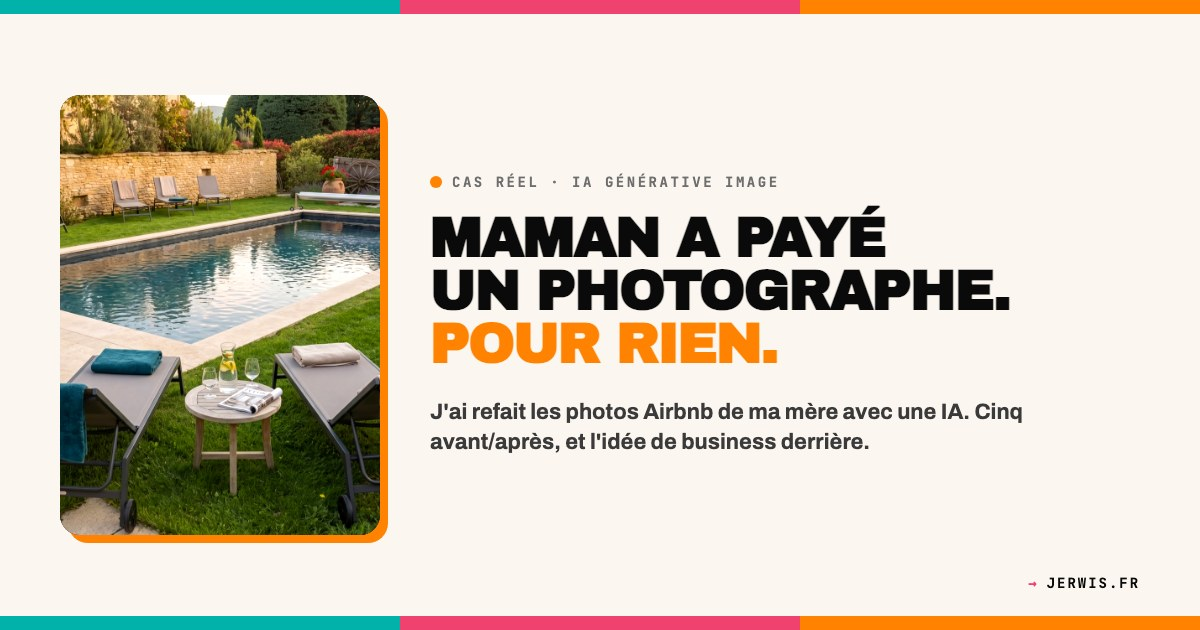
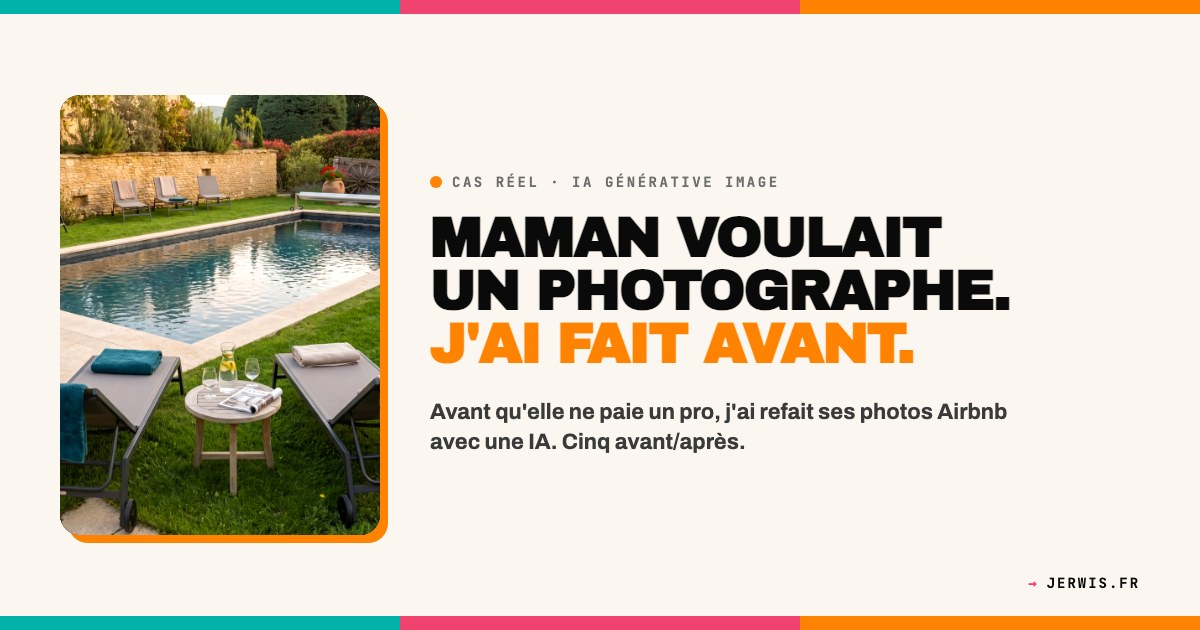
fix(article): airbnb — corriger l'histoire (photographe pas encore venu)
L'histoire réelle : maman voulait faire venir un photographe mais ne l'avait
pas encore fait. J'ai pris les devants avec Nano Banana avant qu'elle ne
décroche son téléphone. Du coup elle n'a pas rappelé le photographe et a
publié mes versions le soir même.

Mises à jour :
- Hero H1 : « Maman a payé un photographe. Pour rien. » → « Maman voulait
  un photographe. J'ai fait avant. »
- Hero lead : reformulé au futur
- Section déclic : devis demandé, date à fixer
- Proposition au dialogue : « avant que tu rappelles ton photographe »
- Conclusion : elle n'a pas rappelé, a publié mes versions le soir même
- TL;DR, meta, OG, Twitter, JSON-LD : alignés
- Cover OG 1200×630 régénérée avec nouveau titre
- Cards alaune + grille articles : ré-alignées

Changed region(s): [[0.3392, 0.5127, 0.7708, 0.6032], [0.3392, 0.6333, 0.8633, 0.7238], [0.555, 0.3317, 0.8017, 0.4222]]

diff --git a/articles/photos-airbnb-nano-banana.html b/articles/photos-airbnb-nano-banana.html
@@ -5,11 +5,11 @@
 <meta name="viewport" content="width=device-width, initial-scale=1.0">
 
 <title>Photos Airbnb retravaillées avec l'IA : test chez ma mère</title>
-<meta name="description" content="Ma mère a payé un photographe pour son Airbnb. Le lendemain, j'avais fait mieux gratuitement avec Nano Banana. Les 5 avant-après, et l'idée de business derrière.">
+<meta name="description" content="Maman voulait payer un photographe pour son Airbnb. J'ai pris les devants avec Nano Banana. Les 5 avant/après, et l'idée de business derrière.">
 
 <!-- Open Graph -->
-<meta property="og:title" content="Photos Airbnb refaites par une IA : test chez ma mère">
-<meta property="og:description" content="Maman a payé un photographe. Le lendemain, j'avais fait mieux gratuitement avec Nano Banana. Les 5 avant/après en images.">
+<meta property="og:title" content="Maman voulait un photographe Airbnb. J'ai fait avant.">
+<meta property="og:description" content="Maman allait payer un pro pour ses photos Airbnb. Je l'ai pris de vitesse avec une IA. Cinq avant/après.">
 <meta property="og:url" content="https://jerwis.fr/articles/photos-airbnb-nano-banana.html">
 <meta property="og:type" content="article">
 <meta property="og:locale" content="fr_FR">
@@ -23,8 +23,8 @@
 <meta name="twitter:card" content="summary_large_image">
 <meta name="twitter:site" content="@JeremySagnier">
 <meta name="twitter:creator" content="@JeremySagnier">
-<meta name="twitter:title" content="Photos Airbnb refaites par une IA : test chez ma mère">
-<meta name="twitter:description" content="Maman a payé un photographe. Le lendemain, j'avais fait mieux gratuitement avec Nano Banana.">
+<meta name="twitter:title" content="Maman voulait un photographe Airbnb. J'ai fait avant.">
+<meta name="twitter:description" content="Maman allait payer un pro pour ses photos Airbnb. Je l'ai pris de vitesse avec une IA.">
 <meta name="twitter:image" content="https://jerwis.fr/photos/og/photos-airbnb-nano-banana.jpg">
 
 <!-- Canonical -->
@@ -36,7 +36,7 @@
   "@context": "https://schema.org",
   "@type": "Article",
   "headline": "Photos Airbnb retravaillées avec l'IA : test chez ma mère",
-  "description": "Ma mère a payé un photographe pour son Airbnb. Le lendemain, j'avais fait mieux gratuitement avec Nano Banana. Les 5 avant-après, et l'idée de business derrière.",
+  "description": "Maman voulait payer un photographe pour son Airbnb. J'ai pris les devants avec Nano Banana. Les 5 avant/après, et l'idée de business derrière.",
   "inLanguage": "fr-FR",
   "url": "https://jerwis.fr/articles/photos-airbnb-nano-banana.html",
   "datePublished": "2026-05-13",
@@ -599,9 +599,9 @@
 <section class="hero">
   <div class="container">
     <div class="kicker"><span class="dot"></span>Cas réel · IA générative image</div>
-    <h1>Maman a payé<br>un photographe.<br><em>Pour rien.</em></h1>
+    <h1>Maman voulait<br>un photographe.<br><em>J'ai fait avant.</em></h1>
     <p class="hero-lead">
-      Un week-end chez ma mère, j'apprends qu'elle a fait venir un pro pour refaire les photos de son Airbnb. Le lendemain, sur mon ordinateur, j'avais fait mieux gratuitement avec une IA. Voilà les cinq avant-après, et pourquoi ça change tout pour les propriétaires Airbnb et les agents immobiliers.
+      Un week-end chez ma mère, elle me dit qu'elle compte faire venir un pro pour refaire les photos de son Airbnb. Avant qu'elle ne décroche son téléphone, j'avais fait le test avec une IA. Voilà les cinq avant/après, et pourquoi ça change tout pour les propriétaires Airbnb et les agents immobiliers.
     </p>
     <div class="hero-meta">
       <span class="hero-meta-item"><strong>13 mai 2026</strong></span>
@@ -617,7 +617,7 @@
     <div class="tldr-label">En 30 secondes</div>
     <h2>Ce qu'il y a dans cet article</h2>
     <ul>
-      <li>Le week-end qui a tout déclenché : ma mère, son Airbnb, un photographe payé une fortune</li>
+      <li>Le week-end qui a tout déclenché : ma mère, son Airbnb, un photographe qu'elle <strong>voulait</strong> faire venir</li>
       <li>Le prompt magique tenant en cinq mots : <strong>« améliore la photo en lui donnant vie »</strong></li>
       <li><strong>Cinq transformations avant-après</strong> sur des pièces réelles : piscine, salon, salle à manger, cuisine d'été</li>
       <li>Ce que l'IA garde du réel et ce qu'elle invente — la frontière à ne pas dépasser</li>
@@ -637,7 +637,7 @@
     </p>
 
     <p>
-      Elle me dit qu'elle vient de faire venir un photographe professionnel. <strong>Un mec du village d'à côté, dans son réseau, qui fait ce métier depuis longtemps.</strong> Demi-journée chez elle, retouches comprises, dans les 500 euros. Elle voulait rafraîchir les photos en ligne, gagner quelques étoiles supplémentaires, attirer plus de réservations pour la saison.
+      Elle me dit qu'elle est sur le point de faire venir un photographe professionnel. <strong>Un mec du village d'à côté, dans son réseau, qui fait ce métier depuis longtemps.</strong> Devis demandé, demi-journée chez elle, retouches comprises, dans les 500 euros. Elle voulait rafraîchir les photos en ligne, gagner quelques étoiles supplémentaires, attirer plus de réservations pour la saison. Plus qu'à fixer la date avec lui.
     </p>
 
     <p>
@@ -649,11 +649,11 @@
     </p>
 
     <p>
-      Je propose à ma mère, mi-blague mi-curieux : <em>« Et si on essayait ? Si ça donne quelque chose, tant mieux. Si c'est nul, on garde celles du photographe. »</em> Elle me regarde comme si j'allais jouer avec un gadget pendant qu'elle continue à beurrer ses tartines.
+      Je propose à ma mère, mi-blague mi-curieux : <em>« Et si on essayait, avant que tu rappelles ton photographe ? Si ça donne quelque chose, tu auras le choix. Si c'est nul, tu fixes la date avec lui demain. »</em> Elle me regarde comme si j'allais jouer avec un gadget pendant qu'elle continue à beurrer ses tartines.
     </p>
 
     <p>
-      Je récupère les photos brutes qu'elle avait sur son annonce Airbnb. Pas les versions retouchées par le photographe — celles d'avant, prises au téléphone par elle-même. Et je vais voir Gemini.
+      Je récupère les photos brutes qu'elle avait sur son annonce Airbnb — celles qu'elle a prises elle-même au téléphone, qui sont en ligne actuellement. Et je vais voir Gemini.
     </p>
   </div>
 </section>
@@ -887,15 +887,15 @@
     <h2>Le résultat <em class="teal">chez elle.</em></h2>
 
     <p>
-      Ma mère a finalement gardé les photos du photographe pour l'instant. Elle les a payées, elles sont bien, elle a un certain attachement au mec qui les a faites — il habite trois villages plus loin et elle le voit au marché du dimanche.
+      Quand je lui ai montré les cinq photos retouchées, ma mère a regardé son téléphone, puis la photo, puis son téléphone à nouveau. <strong>Elle n'a pas rappelé le photographe.</strong> Elle a publié mes versions sur son annonce le soir même.
     </p>
 
     <p>
-      <strong>Mais elle a mis en réserve mes versions IA</strong> pour les saisons à venir, ou pour tester en A/B sur son annonce. Elle compte regarder dans trois mois si ses réservations bougent quand elle alterne. Si c'est positif, je referai tout son catalogue d'un coup avant l'été suivant.
+      Elle ne lui en veut pas, c'est un voisin qu'elle apprécie — elle le croise au marché du dimanche. Mais 500 euros qu'elle n'a pas à dépenser, c'est 500 euros gardés. Et le rendu est meilleur que ce qu'on aurait obtenu avec un shooting classique à midi en pleine lumière dure.
     </p>
 
     <p>
-      Coût total de mon expérience : <strong>une heure de mon temps un samedi matin</strong>, et zéro euro (j'ai utilisé Gemini en version gratuite, qui inclut un quota d'éditions d'image par jour suffisant pour ça).
+      Coût total de mon expérience : <strong>une heure de mon temps un samedi matin</strong>, et zéro euro (j'ai utilisé Gemini en version gratuite, qui inclut un quota d'éditions d'image par jour largement suffisant pour ça).
     </p>
   </div>
 </section>

diff --git a/articles.html b/articles.html
@@ -1179,7 +1179,7 @@
 
   // 23 articles + le featured (le plus récent)
   const ALL_ARTICLES = [
-    { slug:'photos-airbnb-nano-banana',      type:'makingof',      title:"MAMAN A PAYÉ UN PHOTOGRAPHE. POUR RIEN.", excerpt:"Ma mère a fait venir un pro pour son Airbnb. Le lendemain, j'avais fait mieux avec une IA. Cinq avant/après et deux idées de business.", date:'2026-05-13', read:'10 MIN', scene:'office', size:'m' },
+    { slug:'photos-airbnb-nano-banana',      type:'makingof',      title:"MAMAN VOULAIT UN PHOTOGRAPHE. J'AI FAIT AVANT.", excerpt:"Avant qu'elle ne paie un pro pour ses photos Airbnb, j'ai pris les devants avec une IA. Cinq avant/après et deux idées de business.", date:'2026-05-13', read:'10 MIN', scene:'office', size:'m' },
     { slug:'podcast-ia-pour-enfants',        type:'makingof',      title:"UN PODCAST POUR MON FILS. PAS YOUTUBE KIDS.", excerpt:"Le making-of d'un podcast pour les trajets voiture 4-6 ans. Quatre épisodes à écouter directement sur la page.", date:'2026-05-13', read:'12 MIN', scene:'studio', size:'m' },
     { slug:'photos-perso-ia',                type:'makingof',      title:"MON GÉNÉRATEUR DE PHOTOS PERSONAL BRANDING.", excerpt:"30 € au lieu de 500 €. Ce qui marche, ce qui foire honteusement, et le code en précommande à 39 € pour ceux qui veulent juste l'utiliser.", date:'2026-05-07', read:'10 MIN', scene:'office', size:'m' },
     { slug:'musk-vs-openai-le-proces',       type:'opinion',       title:"MUSK CONTRE OPENAI, RACONTÉ SIMPLEMENT.", excerpt:"Une trahison entre amis devenue procès civilisationnel. 134 milliards sur la table, et un précédent qui touche toute la philanthropie tech.", date:'2026-04-29', read:'18 MIN', scene:'corp', size:'m' },

diff --git a/index.html b/index.html
@@ -2179,8 +2179,8 @@
         </div>
         <div class="alaune-bar"></div>
         <div class="alaune-body">
-          <h3 class="alaune-title">Maman a payé un photographe. Pour rien.</h3>
-          <p class="alaune-punch">« J'ai refait les photos Airbnb de ma mère avec une IA en une heure. Cinq avant/après, et l'idée de business derrière. »</p>
+          <h3 class="alaune-title">Maman voulait un photographe. J'ai fait avant.</h3>
+          <p class="alaune-punch">« Avant qu'elle ne paie un pro pour ses photos Airbnb, j'ai refait les cinq photos avec une IA. Et l'idée de business derrière. »</p>
           <div class="alaune-foot">
             <span class="alaune-date">13 mai · 10 min</span>
             <span class="alaune-cta">Lire →</span>

diff --git a/scripts/og-batch.html b/scripts/og-batch.html
@@ -125,8 +125,8 @@
 const COVERS = {
   "photos-airbnb-nano-banana": {
     kicker: "Cas réel · IA générative image",
-    h1: "Maman a payé<br>un photographe.<br><span class=\"accent-orange\">Pour rien.</span>",
-    tagline: "J'ai refait les photos Airbnb de ma mère avec une IA. Cinq avant/après, et l'idée de business derrière.",
+    h1: "Maman voulait<br>un photographe.<br><span class=\"accent-orange\">J'ai fait avant.</span>",
+    tagline: "Avant qu'elle ne paie un pro, j'ai refait ses photos Airbnb avec une IA. Cinq avant/après.",
     accent: "orange",
     size: "md",
     photo: "airbnb/01-piscine-apres.jpg"
